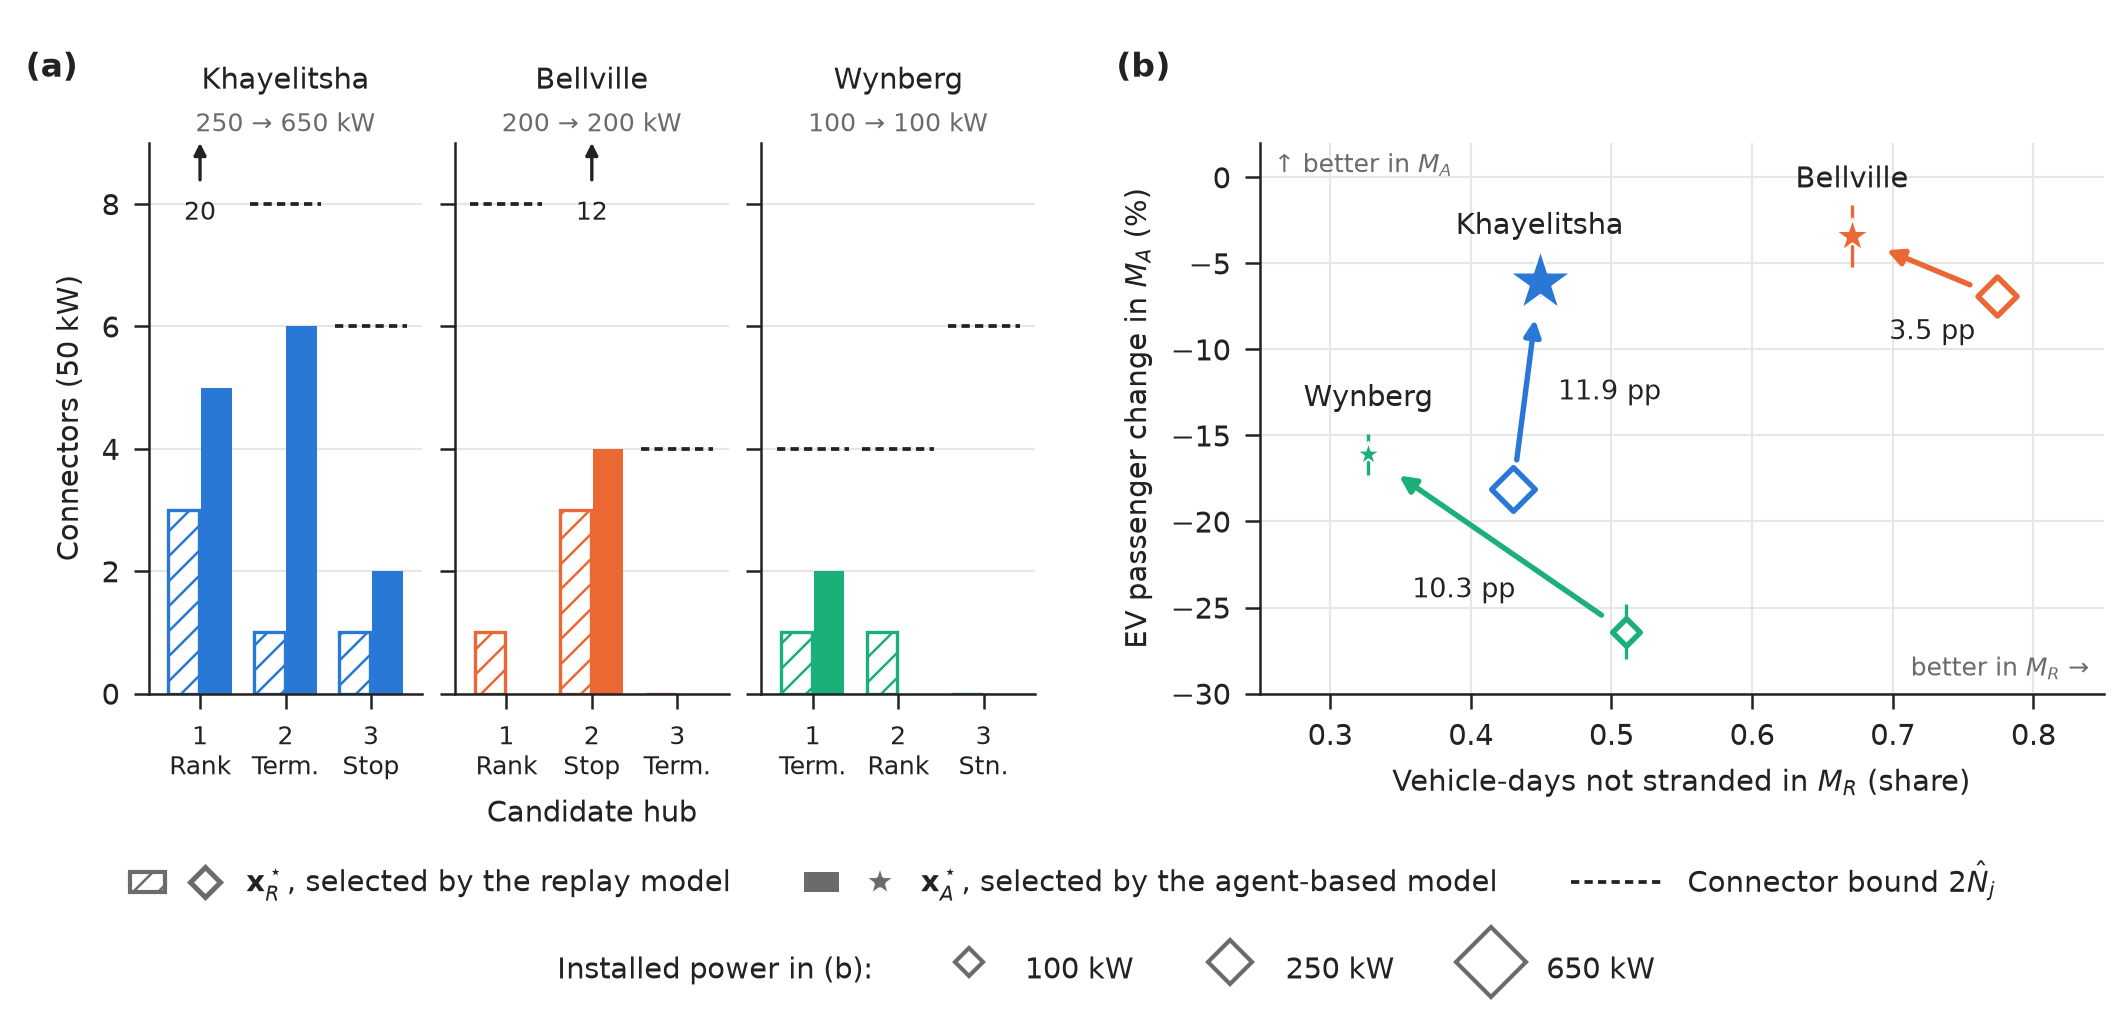
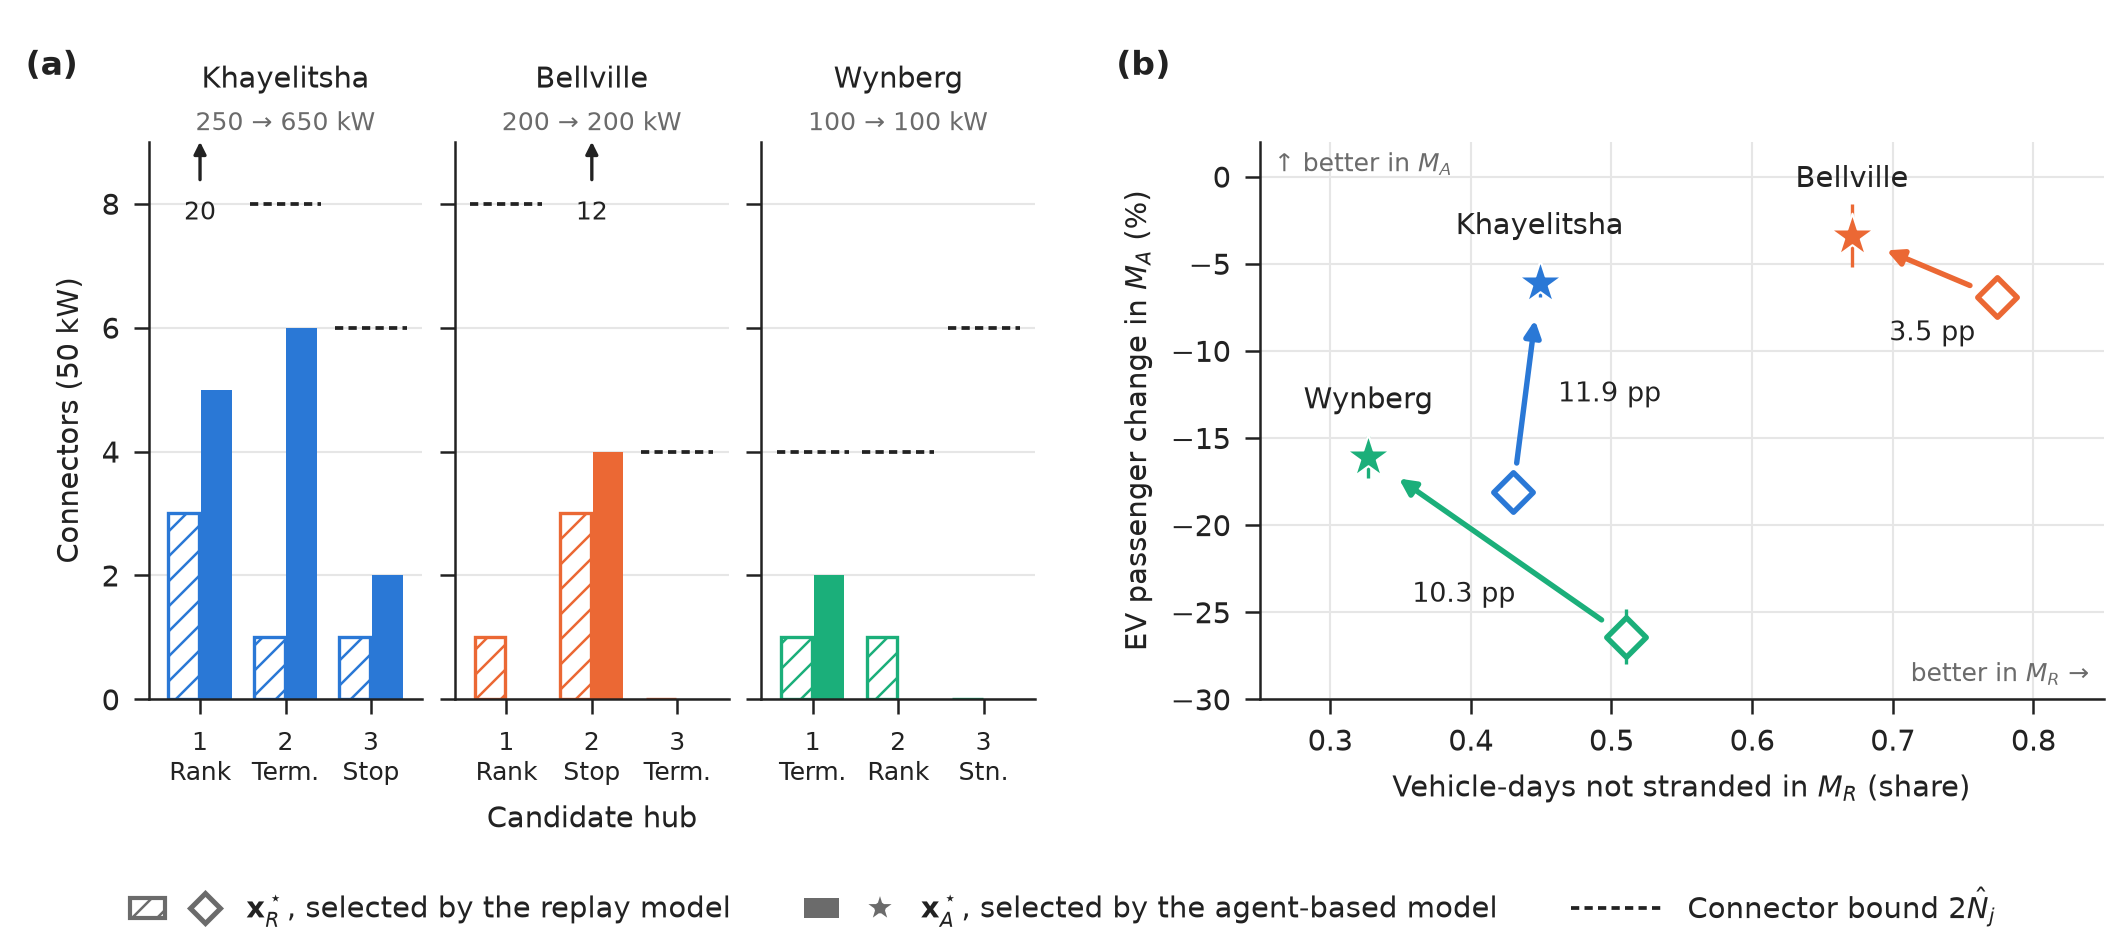
Use fixed marker sizes in the two-by-two figure
Marker area no longer scales with installed power; the caption is updated
to match.

diff --git a/figures/two_by_two.py b/figures/two_by_two.py
@@ -34,8 +34,7 @@ COMMUNITIES: dict[str, dict[str, Any]] = {
 
 INK, MUTED, GRID = "#222222", "#6b6b6b", "#e6e6e6"
 YMAX = 9
-KW_AREA = 0.22  # marker area (pt^2) per kW of installed power
-STAR = 1.7  # a star covers less of its box than a diamond, so it gets more area
+DIAMOND_AREA, STAR_AREA = 45, 120  # marker areas (pt^2); a star covers less of its box
 
 plt.rcParams.update({
     "font.family": "DejaVu Sans", "font.size": 7, "axes.labelsize": 7,
@@ -45,7 +44,7 @@ plt.rcParams.update({
     "pdf.fonttype": 42,
 })
 
-fig = plt.figure(figsize=(510 / 72, 3.4))
+fig = plt.figure(figsize=(510 / 72, 3.15))
 gs = fig.add_gridspec(1, 2, width_ratios=(1.05, 1), wspace=0.26)
 gs_a = gs[0].subgridspec(1, 3, wspace=0.12)
 
@@ -86,7 +85,7 @@ axes_a[0].set_ylabel("Connectors (50 kW)")
 axes_a[1].set_xlabel("Candidate hub")
 axes_a[0].text(-0.45, 1.12, "(a)", transform=axes_a[0].transAxes, fontweight="bold", fontsize=8)
 
-# (b) Each design in both models; marker area by installed power, cost of x_R by each arrow.
+# (b) Each design in both models; the cost of x_R by each arrow.
 ax = fig.add_subplot(gs[1])
 for name, c in COMMUNITIES.items():
     ns = [1 - s for s in c["stranded"]]
@@ -97,9 +96,9 @@ for name, c in COMMUNITIES.items():
     for j in range(2):
         ax.errorbar(ns[j], dev[j], yerr=200 * c["se"][j], fmt="none",
                     ecolor=c["colour"], elinewidth=0.8, capsize=0, zorder=2)
-    ax.scatter(ns[0], dev[0], s=KW_AREA * c["kW"][0], marker="D", facecolor="white",
+    ax.scatter(ns[0], dev[0], s=DIAMOND_AREA, marker="D", facecolor="white",
                edgecolor=c["colour"], linewidth=1.3, zorder=3)
-    ax.scatter(ns[1], dev[1], s=STAR * KW_AREA * c["kW"][1], marker="*",
+    ax.scatter(ns[1], dev[1], s=STAR_AREA, marker="*",
                facecolor=c["colour"], edgecolor="white", linewidth=0.5, zorder=3)
     ax.text(ns[1], dev[1] + 2.4, name, ha="center", va="bottom", fontsize=7, color=INK)
     ax.text(*c["cost_xy"], f"{-100 * c['diff']:.1f} pp", ha=c["cost_ha"], va="center",
@@ -129,17 +128,8 @@ labels = [r"$\mathbf{x}_R^\star$, selected by the replay model",
           r"Connector bound $2\hat{N}_j$"]
 fig.legend(handles, labels, handler_map={tuple: HandlerTuple(ndivide=None, pad=0.8)},
            loc="lower center", ncol=3, frameon=False, fontsize=7,
-           bbox_to_anchor=(0.5, 0.09), handlelength=3.2, columnspacing=2.5)
-
-# Second row: the marker area of (b) by installed power (Line2D markersize is the side in pt).
-sizes = [Line2D([], [], ls="", marker="D", mfc="white", mec=MUTED, mew=1.0,
-                ms=(KW_AREA * kw) ** 0.5) for kw in (100, 250, 650)]
-fig.legend([Line2D([], [], ls="")] + sizes,
-           ["Installed power in (b):", "100 kW", "250 kW", "650 kW"],
-           loc="lower center", ncol=4, frameon=False, fontsize=7,
-           bbox_to_anchor=(0.5, 0.0), handlelength=2.2, handleheight=2.2,
-           columnspacing=2.2, handletextpad=0.8)
-fig.subplots_adjust(left=0.07, right=0.99, top=0.86, bottom=0.32)
+           bbox_to_anchor=(0.5, -0.01), handlelength=3.2, columnspacing=2.5)
+fig.subplots_adjust(left=0.07, right=0.99, top=0.85, bottom=0.26)
 
 fig.savefig(OUT.with_suffix(".pdf"))
 fig.savefig(OUT.with_suffix(".png"), dpi=300)

diff --git a/main.tex b/main.tex
@@ -755,7 +755,7 @@ Each design evaluated in both models (Table~\ref{tab:two_by_two} and Figure~\ref
     \centering
     % CHANGE: New figure of Table tab:two_by_two. Source: figures/two_by_two.py (values of tab:two_by_two and tab:hubs).
     \includegraphics[width=\textwidth]{figures/two_by_two.pdf}
-    \caption[The selected designs and their outcomes in both models]{The design that each model selects and its outcomes in both models (Table~\ref{tab:two_by_two}). (a) The connectors of 50~kW at each candidate hub (Term.: terminus; Stn.: station), with the installed power of $\xR$ and $\xA$ under each community and the connector bound $2\hat{N}_j$ of the design space (dashed; an arrow marks a bound above the axis). (b) Each design in both models: the share of the vehicle-days that do not strand in \MR{} and the EV passenger change against the ICE counterfactual in \MA{} ($\pm$ two standard errors over ten fresh seeds). The arrow runs from $\xR$ to $\xA$; its label is the cost of $\xR$, the paired difference in EV passenger change in percentage points. The marker area is proportional to the installed power. An arrow up and to the left means that the two models prefer different designs.}
+    \caption[The selected designs and their outcomes in both models]{The design that each model selects and its outcomes in both models (Table~\ref{tab:two_by_two}). (a) The connectors of 50~kW at each candidate hub (Term.: terminus; Stn.: station), with the installed power of $\xR$ and $\xA$ under each community and the connector bound $2\hat{N}_j$ of the design space (dashed; an arrow marks a bound above the axis). (b) Each design in both models: the share of the vehicle-days that do not strand in \MR{} and the EV passenger change against the ICE counterfactual in \MA{} ($\pm$ two standard errors over ten fresh seeds). The arrow runs from $\xR$ to $\xA$; its label is the cost of $\xR$, the paired difference in EV passenger change in percentage points. An arrow up and to the left means that the two models prefer different designs.}
     \label{fig:two_by_two}
 \end{figure}
 
